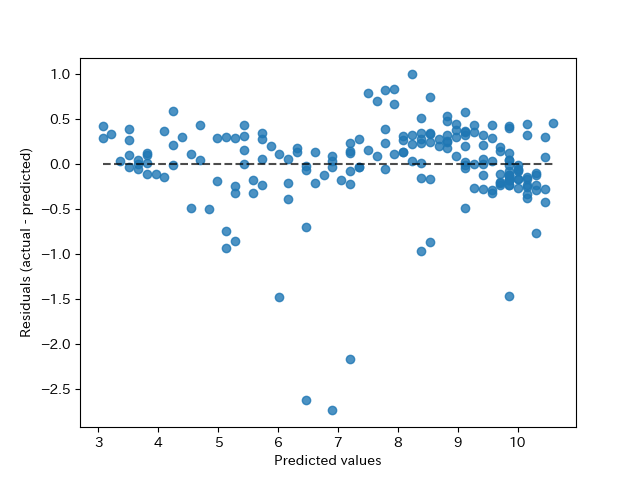
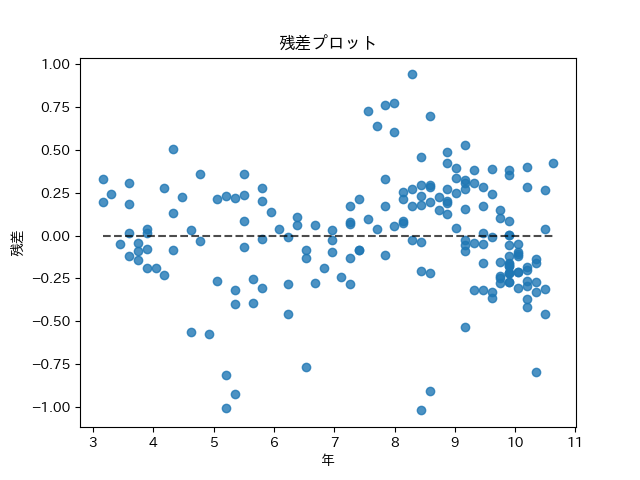
演習17完了

diff --git a/sec17/001_shiraishi_exe.py b/sec17/001_shiraishi_exe.py
@@ -4,6 +4,26 @@ import japanize_matplotlib
 import numpy as np
 from sklearn.linear_model import LinearRegression
 from sklearn.metrics import r2_score, PredictionErrorDisplay
+from scipy.spatial import distance
+
+def getDistance(x : np.ndarray, z: np.ndarray) -> np.ndarray:
+    
+    xz_distance = np.zeros(z.shape)
+    # xとの相関係数を取る
+    corrcoef = np.corrcoef([x.flatten(), z])[0, 1] * 100
+    print(f"xとzの相関係数は: {corrcoef}")
+
+    if int(corrcoef) >= 50:
+        vec_x = np.concatenate([x, z.reshape(-1,1)], axis=1)
+        vec_mu = np.mean(vec_x, axis=0) # 平均値のベクトルμを作る。
+        S = np.cov(vec_x.T)             # 分散共分散行列 S を作る。
+
+        # すべての点のマハラノビス距離リストを作る。
+        xz_distance = np.array([distance.mahalanobis(x, vec_mu, np.linalg.pinv(S)) for x in vec_x])
+    else:
+        pass # ユークリッド距離は省略
+    
+    return xz_distance
 
 data = pd.read_csv("Transistor_count.csv")
 # print(data.isnull().sum())
@@ -11,10 +31,6 @@ data = pd.read_csv("Transistor_count.csv")
 
 x = data['year'].to_numpy().reshape(-1, 1)
 t = data["MOS_transistor_count"].to_numpy()
-
-# 外れ値の除去
-
-
 # """（３）z = log10(y) として、x から z を予測する式を求めよ。"""
 z = np.log10(t) # 10を底とする常用対数を取る
 
@@ -26,58 +42,105 @@ z = np.log10(t) # 10を底とする常用対数を取る
 ① ユークリッド距離
 ② マハラノビス距離
 
-相関係数が0.5以上だとマナラノビス距離を使用し
+相関係数が0.5以上だとマハラノビス距離を使用し
 それ以下だとユークリッド距離を使用する。
 """
 
-# xとzの相関係数を取る
-corrcoef = np.corrcoef([x.flatten(), z])[0, 1]
-print(f"xとzの相関係数は: {corrcoef}") # 9761272428841768
-
-"""
-xとzには0.5以上の相関関係があるので、ここではマハラノビス距離を使ってみる
-"""
-t_mu = t.mean()
-t_std = t.std()
-
-t_mahala = np.array([abs(tn - t_mu) / t_std for tn in t]) 
-
-q0, q25, q50, q75, q100 = np.percentile(t_mahala, q = [0, 25, 50, 75, 100], method="midpoint")
+xz_distance = getDistance(x, z)
+q0, q25, q50, q75, q100 = np.percentile(xz_distance, q = [0, 25, 50, 75, 100], method="midpoint")
 
 iqr = q75 - q25                # 四分位範囲
 lower_fence = q25 - 1.5 * iqr  # 下限の外れ値
 upper_fence = q75 + 1.5 * iqr  # 上限の外れ値
 
-use_index = [tn for tn in t_mahala if tn > lower_fence and tn < upper_fence ]
+use_index = list(map(lambda n_distance: True if n_distance > lower_fence and n_distance < upper_fence else False, xz_distance))
 
-# model = LinearRegression()
-# model.fit(x, z)
-# """（４）x から y を予測する式を求めよ。"""
-# t_pred = 10 ** (model.coef_[0] * x + model.intercept_)
-# z_pred = model.coef_[0] * x + model.intercept_
+x_use = x[use_index]
+z_use = z[use_index]
+t_use = t[use_index]
+
+model = LinearRegression()
+model.fit(x_use, z_use)
+"""（４）x から y を予測する式を求めよ。"""
+t_pred = 10 ** (model.coef_[0] * x_use + model.intercept_)
+z_pred = model.coef_[0] * x_use + model.intercept_
 
 # """（６）x, z の回帰で R2 決定係数を求めよ。"""
-# print(f'決定係数 {r2_score(t, t_pred)*100}')
+print(f'決定係数 {r2_score(z[use_index], z_pred)*100}')
 # print(f'傾き: {model.coef_[0]}')
 # print(f'切片: {model.intercept_}')
+original_a = model.coef_[0]
 
 # """（５）残差を残差プロットに表せ。（x, z の回帰で）"""
-# # display = PredictionErrorDisplay(y_true=z, y_pred=z_pred.flatten())
-# # display.plot()
-# # plt.savefig("residual_plot.png")
+display = PredictionErrorDisplay(y_true=z_use, y_pred=z_pred.flatten())
+display.plot()
+plt.title('残差プロット')
+plt.xlabel('年')
+plt.ylabel('残差')
+plt.savefig("residual_plot.png")
 
 # """（１）xy 平面にこのデータを散布図としてプロットせよ。"""
-# plt.plot(x, t)
+# plt.scatter(x, t)
 # """（２）次に、縦軸を log10(y)（常用対数）としてプロットしてみよ。"""
-# plt.scatter(x, z)
-# plt.plot(x, t_pred, c='red')
-plt.title('ムーアの法則')
-plt.xlabel('年')
-plt.ylabel('集積回路あたりの部品数')
+# plt.scatter(x_use, z_use)
 
-# # # plt.savefig('original_moore.png')
+# 最終結果
+# plt.plot(x, t)
+# plt.plot(x_use, t_pred, c='red')
+# plt.title('元データ')
+# plt.xlabel('年')
+# plt.ylabel('集積回路あたりの部品数')
+# plt.ylabel(' log10(t)（常用対数）')
+
+# plt.savefig('original_data.png')
 # plt.savefig('x_z_scatter.png')
-# # plt.savefig('linear_pred.png')
-# plt.show()
+# plt.savefig('linear_pred.png')
 
 # """（７）この結果から、ムーアの法則（yは、2年ごとに2倍になる）は正しいといえるかどうかあなたの考えを述べなさい。"""
+
+"""
+ムーアの予測どおりにトランジスタ数が増えた場合のデータを求め、元データと比較する
+"""
+# t_start = t[0]
+# moore_list = []
+# for i in np.arange(min(x_use)[0], max(x_use)[0], 2):
+#     index = np.where(x_use == i)[0][0] # 2年ずつ増えたインデックス
+    
+#     if index == 0:
+#         moore_list.append([i, t_start])
+    
+#     else:
+#         # print(moore_list[len(moore_list) - 1][1] * 2)
+#         moore_list.append([i, moore_list[len(moore_list) - 1][1] * 2])
+
+# moore_list = np.array(moore_list)
+# moore_x = moore_list[:, 0].reshape(-1, 1)
+# moore_t = moore_list[:, 1]
+
+# plt.scatter(x, t, label='元データ')
+# plt.scatter(moore_x, moore_t, color='orange', label="ムーアの予測")
+
+# moore_z = np.log10(moore_t) # 10を底とする常用対数を取る
+# model.fit(moore_x, moore_z)
+# model.predict(moore_x)
+# moore_pred = 10 ** (model.coef_[0] * moore_x + model.intercept_)
+# print(f'傾き: {model.coef_[0]}')
+# print(f'切片: {model.intercept_}')
+# moore_a = model.coef_[0]
+
+# plt.plot(x, t, label="元データ")
+# plt.plot(moore_x, moore_pred, color='red', label='ムーアの予測')
+# plt.legend()
+# # plt.title('ムーアの予測と元データの比較1')
+# plt.title('ムーアの予測と元データの比較2')
+# plt.xlabel('年')
+# plt.ylabel('集積回路あたりの部品数')
+# # plt.savefig('result_scatter.png')
+# plt.savefig('result_plot.png')
+
+# print(f'オリジナルデータの傾き: {original_a}')
+# print(f'ムーアの予測の傾き: {moore_a}')
+
+"""
+ムーアの予測によって求めた指数の傾き0.150と元データから求めた指数の傾き0.146はだいたい同じくらいなのでムーアの予測は正しいと言って良いと考える
+"""
